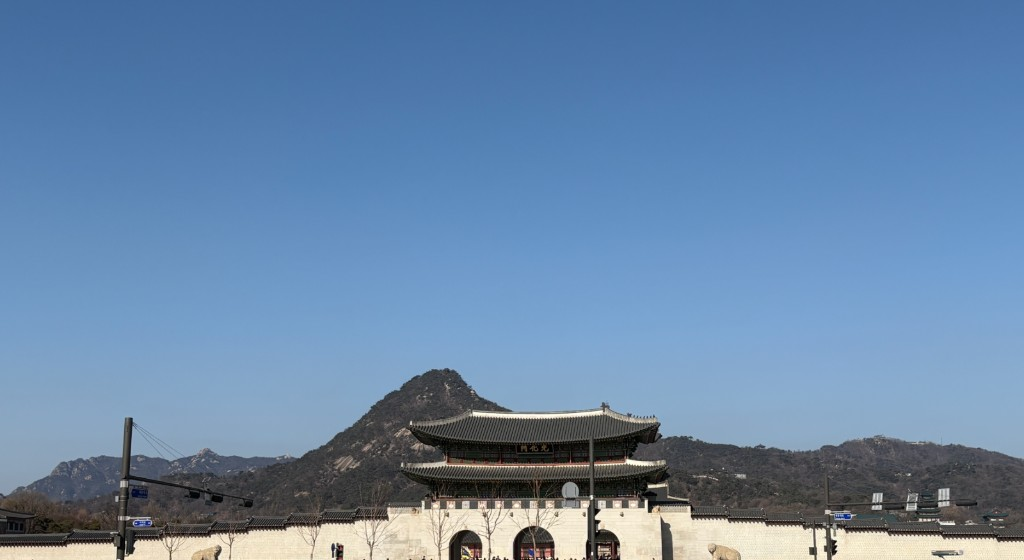
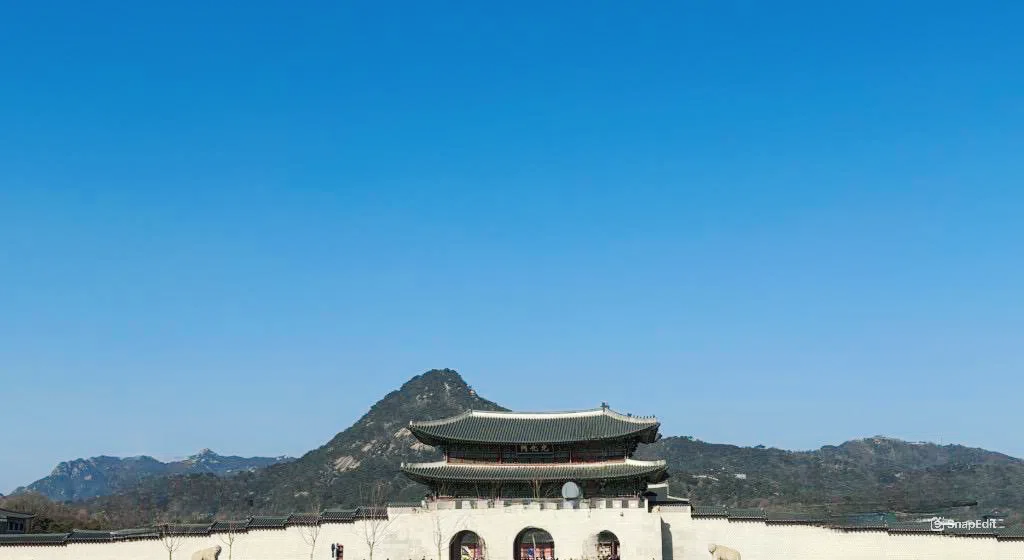
メインヒーロー背景画像 hero-bg.png を更新・キャッシュバスター追加
Made-with: Cursor

diff --git a/public/index.html b/public/index.html
@@ -147,7 +147,7 @@
     .hero-bg {
       position: absolute;
       inset: 0;
-      background-image: url('/img/hero-bg.png');
+      background-image: url('/img/hero-bg.png?v=2');
       background-size: cover;
       background-position: center 62%;
       transform: scale(1.05);
